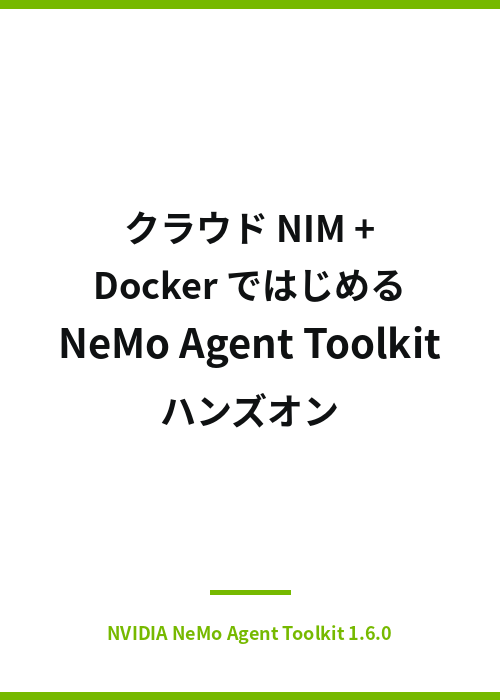
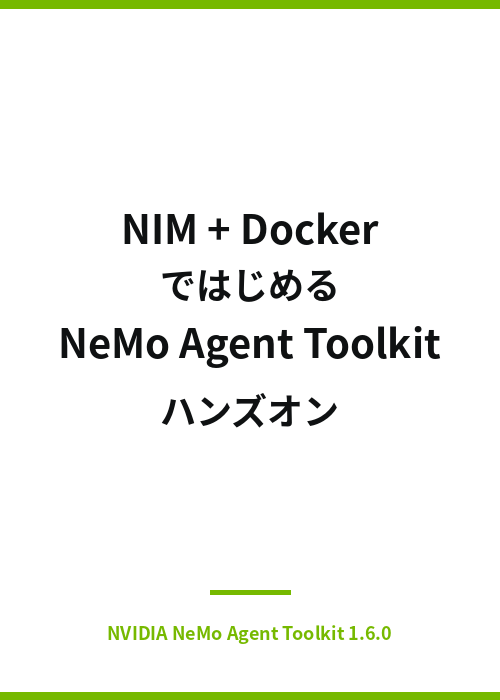
docs(book/nat-handson): タイトルを「NIM + Docker」に短縮
- config.yaml の title / summary から「クラウド」を除去
- 本文 9 箇所の「クラウド NIM」表記を「NIM」に統一
- カバー画像を「NIM + Docker / ではじめる / NeMo Agent Toolkit /
  ハンズオン」の 4 行構成に再生成（NeMo Agent Toolkit と NIM +
  Docker を 40pt で強調）

Changed region(s): [[0.18, 0.3, 0.81, 0.45]]

diff --git a/books/nemo-agent-toolkit-nim-handson/00-intro.md b/books/nemo-agent-toolkit-nim-handson/00-intro.md
@@ -4,7 +4,7 @@ title: "はじめに／本書の歩き方"
 
 NVIDIA NeMo Agent Toolkit（以下 NAT）は、旧 AIQ Toolkit / Agent Intelligence Toolkit が 2025 年 6 月に現名称にリブランドされた「LLM エージェントを YAML で組み立てる」ためのオープンソースツールキットです。公式のサンプルは NVIDIA Inference Microservice（以下 NIM）クラウド前提で書かれていることが多く、手元で試そうとするとまず環境構築でつまずいてしまうケースが少なくないのではないでしょうか。
 
-本書はそのつまずきを減らすため、**クラウド NIM + Docker だけ**で NAT のハンズオンを一気通貫で進めることにこだわりました。Python の venv 作成や GPU セットアップは一切不要で、`docker compose` のコマンドさえ叩ければ、最終章のマルチエージェントアプリまでたどり着けます。
+本書はそのつまずきを減らすため、**NIM + Docker だけ**で NAT のハンズオンを一気通貫で進めることにこだわりました。Python の venv 作成や GPU セットアップは一切不要で、`docker compose` のコマンドさえ叩ければ、最終章のマルチエージェントアプリまでたどり着けます。
 
 ## 本書の立ち位置
 
@@ -71,7 +71,7 @@ GPU や DGX Spark は不要です。動作確認は macOS（Apple Silicon Colima
 - LangChain / LangGraph の内部構造の深掘り
 - NVIDIA 以外の LLM プロバイダ（OpenAI / Anthropic / Bedrock）への切り替え
 
-クラウド NIM は build.nvidia.com の無料クレジット枠で全章を通しで回せる想定です。詳細は付録 B にまとめます。
+NIM は build.nvidia.com の無料クレジット枠で全章を通しで回せる想定です。詳細は付録 B にまとめます。
 
 ## 必要な環境
 

diff --git a/books/nemo-agent-toolkit-nim-handson/03-hello-agent.md b/books/nemo-agent-toolkit-nim-handson/03-hello-agent.md
@@ -2,14 +2,14 @@
 title: "第 3 章 最短 Hello Agent"
 ---
 
-ここから本書のハンズオンが始まります。本章では、NAT のもっとも小さな構成、「クラウド NIM に 1 問質問して答えを返すだけ」の ReAct エージェントを `docker compose run` で動かします。YAML ファイル 1 枚と compose ファイル 1 枚だけで、LLM エージェントがツールを呼んで答えを返す一連の流れを体験するのがゴールです。
+ここから本書のハンズオンが始まります。本章では、NAT のもっとも小さな構成、「NIM に 1 問質問して答えを返すだけ」の ReAct エージェントを `docker compose run` で動かします。YAML ファイル 1 枚と compose ファイル 1 枚だけで、LLM エージェントがツールを呼んで答えを返す一連の流れを体験するのがゴールです。
 
 ## この章のゴール
 
 - `ch03-hello-agent/` ディレクトリで `docker compose run --rm nat` が通る
 - ReAct の Thought / Action / Observation ループを自分の目で確認する
 - workflow.yml の最小構成（`llms` / `functions` / `workflow`）を頭に入れる
-- クラウド NIM 側で推論クレジットが消費される感覚をつかむ
+- NIM 側で推論クレジットが消費される感覚をつかむ
 
 ## 前章からの引き継ぎ
 

diff --git a/books/nemo-agent-toolkit-nim-handson/15-final-app.md b/books/nemo-agent-toolkit-nim-handson/15-final-app.md
@@ -277,7 +277,7 @@ NAT 1.6.0 の A2A client で発生する既知の型変換エラーです。ReAc
 
 ## おわりに（本編の終わりに）
 
-本書の目標は「クラウド NIM + Docker だけで NAT のマルチエージェント + RAG アプリを組み上げる」ことでした。ここまでお付き合いいただきありがとうございます。
+本書の目標は「NIM + Docker だけで NAT のマルチエージェント + RAG アプリを組み上げる」ことでした。ここまでお付き合いいただきありがとうございます。
 
 ここから先は、読者それぞれが自分の業務データで本書の構成を置き換えていく番です。nat-docs を社内 Wiki に、`wiki_lookup` を社内検索 API に、`current_datetime` を業務ツール（Slack / JIRA / Salesforce）の MCP ツールに差し替えれば、同じアーキテクチャで「社内ハイブリッド Q&A エージェント」が組めます。
 

diff --git a/books/nemo-agent-toolkit-nim-handson/02-environment-colima.md b/books/nemo-agent-toolkit-nim-handson/02-environment-colima.md
@@ -293,4 +293,4 @@ Mac Apple Silicon の Colima はデフォルトで ARM ですが、一部の OSS
 
 ## 次章では
 
-次章では、ここまでで整えた環境を使い、「クラウド NIM に 1 問質問して答えを返すだけ」のもっとも小さな NAT エージェントを動かします。`docker compose run nat` を 1 回叩くと、NAT のワークフローが ReAct ループを回し、ちゃんと応答が返ってくる体験までを追います。
+次章では、ここまでで整えた環境を使い、「NIM に 1 問質問して答えを返すだけ」のもっとも小さな NAT エージェントを動かします。`docker compose run nat` を 1 回叩くと、NAT のワークフローが ReAct ループを回し、ちゃんと応答が返ってくる体験までを追います。
